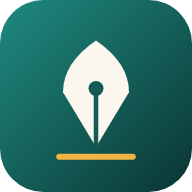
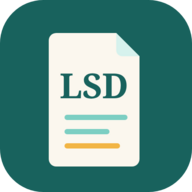
Rename to LSD Paper Maker; updates install automatically; build stamp
- Brand back to LSD Paper Maker: simple exam-sheet logo, community wording
- Service worker now activates new versions immediately (autoUpdate, skipWaiting,
  clientsClaim) and checks for updates on open, on return to the app and every 30 min
- Build date shown in Help & about so anyone can confirm which version they have

Claude-Session: https://claude.ai/code/session_013LVBr7fHHjaNCbo6SMVVie

diff --git a/src/App.jsx b/src/App.jsx
@@ -7,7 +7,7 @@ import Editor from './components/Editor'
 import PaperPreview from './components/PaperPreview'
 import Icon from './components/Icon'
 import { Wordmark, BrandMark } from './components/Brand'
-import { BRAND } from './lib/brand'
+import { BRAND, BUILD_TIME } from './lib/brand'
 import { DEFAULT_SCHOOL_INFO, uid, LANGUAGES, langOf, defaultsFor, normalizeSubjects, normalizeHeader, normalizeLayout, paperSizeKb, cloneWithNewIds, pickPrint, answerStats, grandTotal } from './lib/paper'
 import { downloadPdf, resizeImage } from './lib/pdf'
 import { WHATS_NEW, LATEST_VERSION } from './lib/whatsNew'
@@ -172,7 +172,16 @@ function App() {
   const toastTimer = useRef(null);
   const wide = useMedia('(min-width: 1280px)');
 
-  const { needRefresh: [needRefresh], updateServiceWorker } = useRegisterSW();
+  // Updates install by themselves: check when the app opens, when it comes back to the
+  // foreground, and every 30 minutes; the new version takes over on the next reload.
+  const { needRefresh: [needRefresh], updateServiceWorker } = useRegisterSW({
+    onRegisteredSW(_url, reg) {
+      if (!reg) return;
+      const check = () => { if (navigator.onLine) reg.update().catch(() => {}); };
+      setInterval(check, 30 * 60 * 1000);
+      document.addEventListener('visibilitychange', () => { if (document.visibilityState === 'visible') check(); });
+    },
+  });
 
   const [schoolSettings, setSchoolSettings] = useState(() => store.json('schoolSettings', DEFAULT_SCHOOL_INFO));
   const [header, setHeader] = useState(() => defaultsFor('lsd').header);
@@ -703,7 +712,7 @@ function App() {
             Continue with Google
           </button>
           {!online && <p className="text-amber-300 text-sm mt-4 text-center">You are offline. Connect to the internet to sign in.</p>}
-          <p className="text-brand-200/70 text-xs text-center mt-6">Free for teachers · Your papers are private unless you share them</p>
+          <p className="text-brand-200/70 text-xs text-center mt-6">A free community tool for teachers · Your papers stay private unless you share them</p>
         </div>
       </div>
     );
@@ -1260,7 +1269,7 @@ function App() {
             <li><b>Share</b>: send a copy with a code, or invite colleagues to write the paper together.</li>
             <li>Made a mistake? Tap <b>Undo</b>, or ⋮ → <b>Version history</b>.</li>
           </ul>
-          <div className="text-xs text-slate-400 border-t border-slate-100 pt-3 text-center">Made with care by <a href="https://shabbiryshakir.github.io" target="_blank" rel="noreferrer" className="underline">S. Shakir</a> · {BRAND.name} v{LATEST_VERSION} beta</div>
+          <div className="text-xs text-slate-400 border-t border-slate-100 pt-3 text-center">Made with care by <a href="https://shabbiryshakir.github.io" target="_blank" rel="noreferrer" className="underline">S. Shakir</a> · {BRAND.name} v{LATEST_VERSION} beta{BUILD_TIME ? ` · built ${new Date(BUILD_TIME).toLocaleString(undefined, { day: 'numeric', month: 'short', hour: '2-digit', minute: '2-digit' })}` : ''}</div>
         </Modal>
       )}
     </div>

diff --git a/src/components/Brand.jsx b/src/components/Brand.jsx
@@ -1,20 +1,16 @@
 import { BRAND } from '../lib/brand'
 
-// Qalam brand: a pen nib resting on a gold writing line, on deep ink-teal.
+// LSD Paper Maker mark: a simple exam sheet with "LSD" on it, in the app's calm teal.
 export function BrandMark({ size = 44, className = '' }) {
   return (
     <svg viewBox="0 0 512 512" width={size} height={size} className={`shrink-0 ${className}`} aria-hidden="true">
-      <defs>
-        <linearGradient id="qalam-bg" x1="0" y1="0" x2="1" y2="1">
-          <stop offset="0" stopColor="#1f8a80" />
-          <stop offset="1" stopColor="#0a3533" />
-        </linearGradient>
-      </defs>
-      <rect width="512" height="512" rx="116" fill="url(#qalam-bg)" />
-      <path d="M256 392 L168 246 Q168 168 256 108 Q344 168 344 246 Z" fill="#fbf7ee" />
-      <path d="M256 392 L256 252" stroke="#145a55" strokeWidth="12" strokeLinecap="round" />
-      <circle cx="256" cy="236" r="20" fill="#145a55" />
-      <rect x="150" y="410" width="212" height="16" rx="8" fill="#f2b544" />
+      <rect width="512" height="512" rx="116" fill="#18625d" />
+      <path d="M150 88 h160 l62 62 v274 a20 20 0 0 1 -20 20 H150 a20 20 0 0 1 -20 -20 V108 a20 20 0 0 1 20 -20z" fill="#fbf7ee" />
+      <path d="M310 88 v46 a16 16 0 0 0 16 16 h46z" fill="#d6f2ed" />
+      <text x="251" y="262" textAnchor="middle" fontFamily="'Noto Serif', Georgia, serif" fontWeight="700" fontSize="92" fill="#18625d">LSD</text>
+      <rect x="172" y="306" width="168" height="14" rx="7" fill="#7ccfc3" />
+      <rect x="172" y="344" width="120" height="14" rx="7" fill="#7ccfc3" />
+      <rect x="172" y="382" width="148" height="14" rx="7" fill="#f2b544" />
     </svg>
   );
 }
@@ -25,7 +21,7 @@ export function Wordmark({ subtitle, size = 'md', light = false }) {
       <span className="inline-flex items-center gap-2.5 min-w-0">
         <BrandMark size={36} />
         <span className="min-w-0 leading-tight">
-          <span className={`block font-extrabold text-xl tracking-tight ${light ? 'text-white' : 'text-slate-900'}`}>{BRAND.name}</span>
+          <span className={`block font-bold text-lg tracking-tight ${light ? 'text-white' : 'text-slate-900'}`}>{BRAND.name}</span>
           {subtitle && <span className={`block text-xs font-medium truncate -mt-0.5 ${light ? 'text-brand-100' : 'text-slate-500'}`}>{subtitle}</span>}
         </span>
       </span>
@@ -35,7 +31,7 @@ export function Wordmark({ subtitle, size = 'md', light = false }) {
     <span className="inline-flex flex-col items-center gap-4 text-center">
       <BrandMark size={84} className="drop-shadow-lg" />
       <span className="leading-none">
-        <span className={`block font-extrabold text-4xl tracking-tight ${light ? 'text-white' : 'text-slate-900'}`}>{BRAND.name}</span>
+        <span className={`block font-bold text-3xl tracking-tight ${light ? 'text-white' : 'text-slate-900'}`}>{BRAND.name}</span>
         {subtitle && <span className={`block font-medium text-base mt-2 ${light ? 'text-brand-100' : 'text-slate-500'}`}>{subtitle}</span>}
       </span>
     </span>

diff --git a/vite.config.js b/vite.config.js
@@ -3,15 +3,16 @@ import react from '@vitejs/plugin-react'
 import { VitePWA } from 'vite-plugin-pwa'
 
 export default defineConfig(({ command }) => ({
+  define: { __BUILD_TIME__: JSON.stringify(new Date().toISOString()) },
   plugins: [
     react(),
     VitePWA({
-      registerType: 'prompt',
+      registerType: 'autoUpdate',
       includeAssets: ['logo.svg', 'favicon.png', 'apple-touch-icon.png', 'fonts/KanzAlMarjaan.ttf'],
       manifest: {
-        name: 'Qalam — Exam Papers',
-        short_name: 'Qalam',
-        description: 'Create exam papers and answer keys in Lisan ud Dawat and English, work on them together, and print perfect A4 PDFs.',
+        name: 'LSD Paper Maker',
+        short_name: 'LSD Papers',
+        description: 'A free community tool for teachers to make LSD and English exam papers and answer keys.',
         theme_color: '#18625d',
         background_color: '#f6f7f5',
         display: 'standalone',
@@ -25,6 +26,10 @@ export default defineConfig(({ command }) => ({
         ],
       },
       workbox: {
+        // New versions take over straight away instead of waiting for every tab to close.
+        skipWaiting: true,
+        clientsClaim: true,
+        cleanupOutdatedCaches: true,
         // Cache the whole app (including the Arabic font) so it opens offline.
         globPatterns: ['**/*.{js,css,html,svg,png,ttf,woff2}'],
         maximumFileSizeToCacheInBytes: 5 * 1024 * 1024,

diff --git a/index.html b/index.html
@@ -9,9 +9,9 @@
     <meta name="theme-color" content="#18625d" />
     <meta name="apple-mobile-web-app-capable" content="yes" />
     <meta name="apple-mobile-web-app-status-bar-style" content="default" />
-    <meta name="apple-mobile-web-app-title" content="Qalam" />
-    <meta name="description" content="Create exam papers and answer keys in Lisan ud Dawat and English, work on them together, and print perfect A4 PDFs." />
-    <title>Qalam — Exam papers, beautifully made</title>
+    <meta name="apple-mobile-web-app-title" content="LSD Paper Maker" />
+    <meta name="description" content="A free community tool for teachers to make LSD and English exam papers and answer keys." />
+    <title>LSD Paper Maker</title>
     <style>
       /* Splash shown instantly while the app loads */
       .boot { position: fixed; inset: 0; display: flex; flex-direction: column; align-items: center; justify-content: center; gap: 14px; background: #f6f7f5; font-family: system-ui, sans-serif; }
@@ -23,7 +23,7 @@
     </style>
   </head>
   <body>
-    <div id="root"><div class="boot"><img src="/logo.svg" alt="" /><b>Qalam</b><span>Exam papers, beautifully made</span><i></i></div></div>
+    <div id="root"><div class="boot"><img src="/logo.svg" alt="" /><b>LSD Paper Maker</b><span>Exam papers for LSD teachers</span><i></i></div></div>
     <script type="module" src="/src/main.jsx"></script>
   </body>
 </html>

diff --git a/src/lib/brand.js b/src/lib/brand.js
@@ -1,6 +1,11 @@
 // The app's name and words in one place, so a rename never means hunting through the code.
 export const BRAND = {
-  name: 'Qalam',
-  tagline: 'Exam papers, beautifully made',
-  description: 'Create exam papers and answer keys in Lisan ud Dawat and English, work on them together, and print perfect A4 PDFs.',
+  name: 'LSD Paper Maker',
+  short: 'LSD Paper Maker',
+  tagline: 'Exam papers for LSD teachers',
+  description: 'A free community tool for teachers: make exam papers and answer keys in Lisan ud Dawat and English, work on them with colleagues, and print clean A4 PDFs.',
 };
+
+// Shown in the app so anyone can see exactly which version they have.
+/* global __BUILD_TIME__ */
+export const BUILD_TIME = typeof __BUILD_TIME__ !== 'undefined' ? __BUILD_TIME__ : '';

diff --git a/src/lib/whatsNew.js b/src/lib/whatsNew.js
@@ -2,9 +2,19 @@
 // teachers see a dot on the menu until they open it.
 export const WHATS_NEW = [
   {
+    version: '1.1',
+    date: 'Beta',
+    title: 'LSD Paper Maker',
+    items: [
+      'Back to our name: LSD Paper Maker, with a simple new look',
+      'New versions now install by themselves — no need to reinstall or clear anything',
+      'The version and build date are shown in Menu → Help & about',
+    ],
+  },
+  {
     version: '1.0',
     date: 'Beta',
-    title: 'Welcome to Qalam',
+    title: 'Big update',
     items: [
       'Make exam papers in Lisan ud Dawat (right to left) and English (left to right)',
       '10 question types: written answers, fill in the blanks, match, multiple choice, true/false, who said, word lists, passages, tables and pictures',
